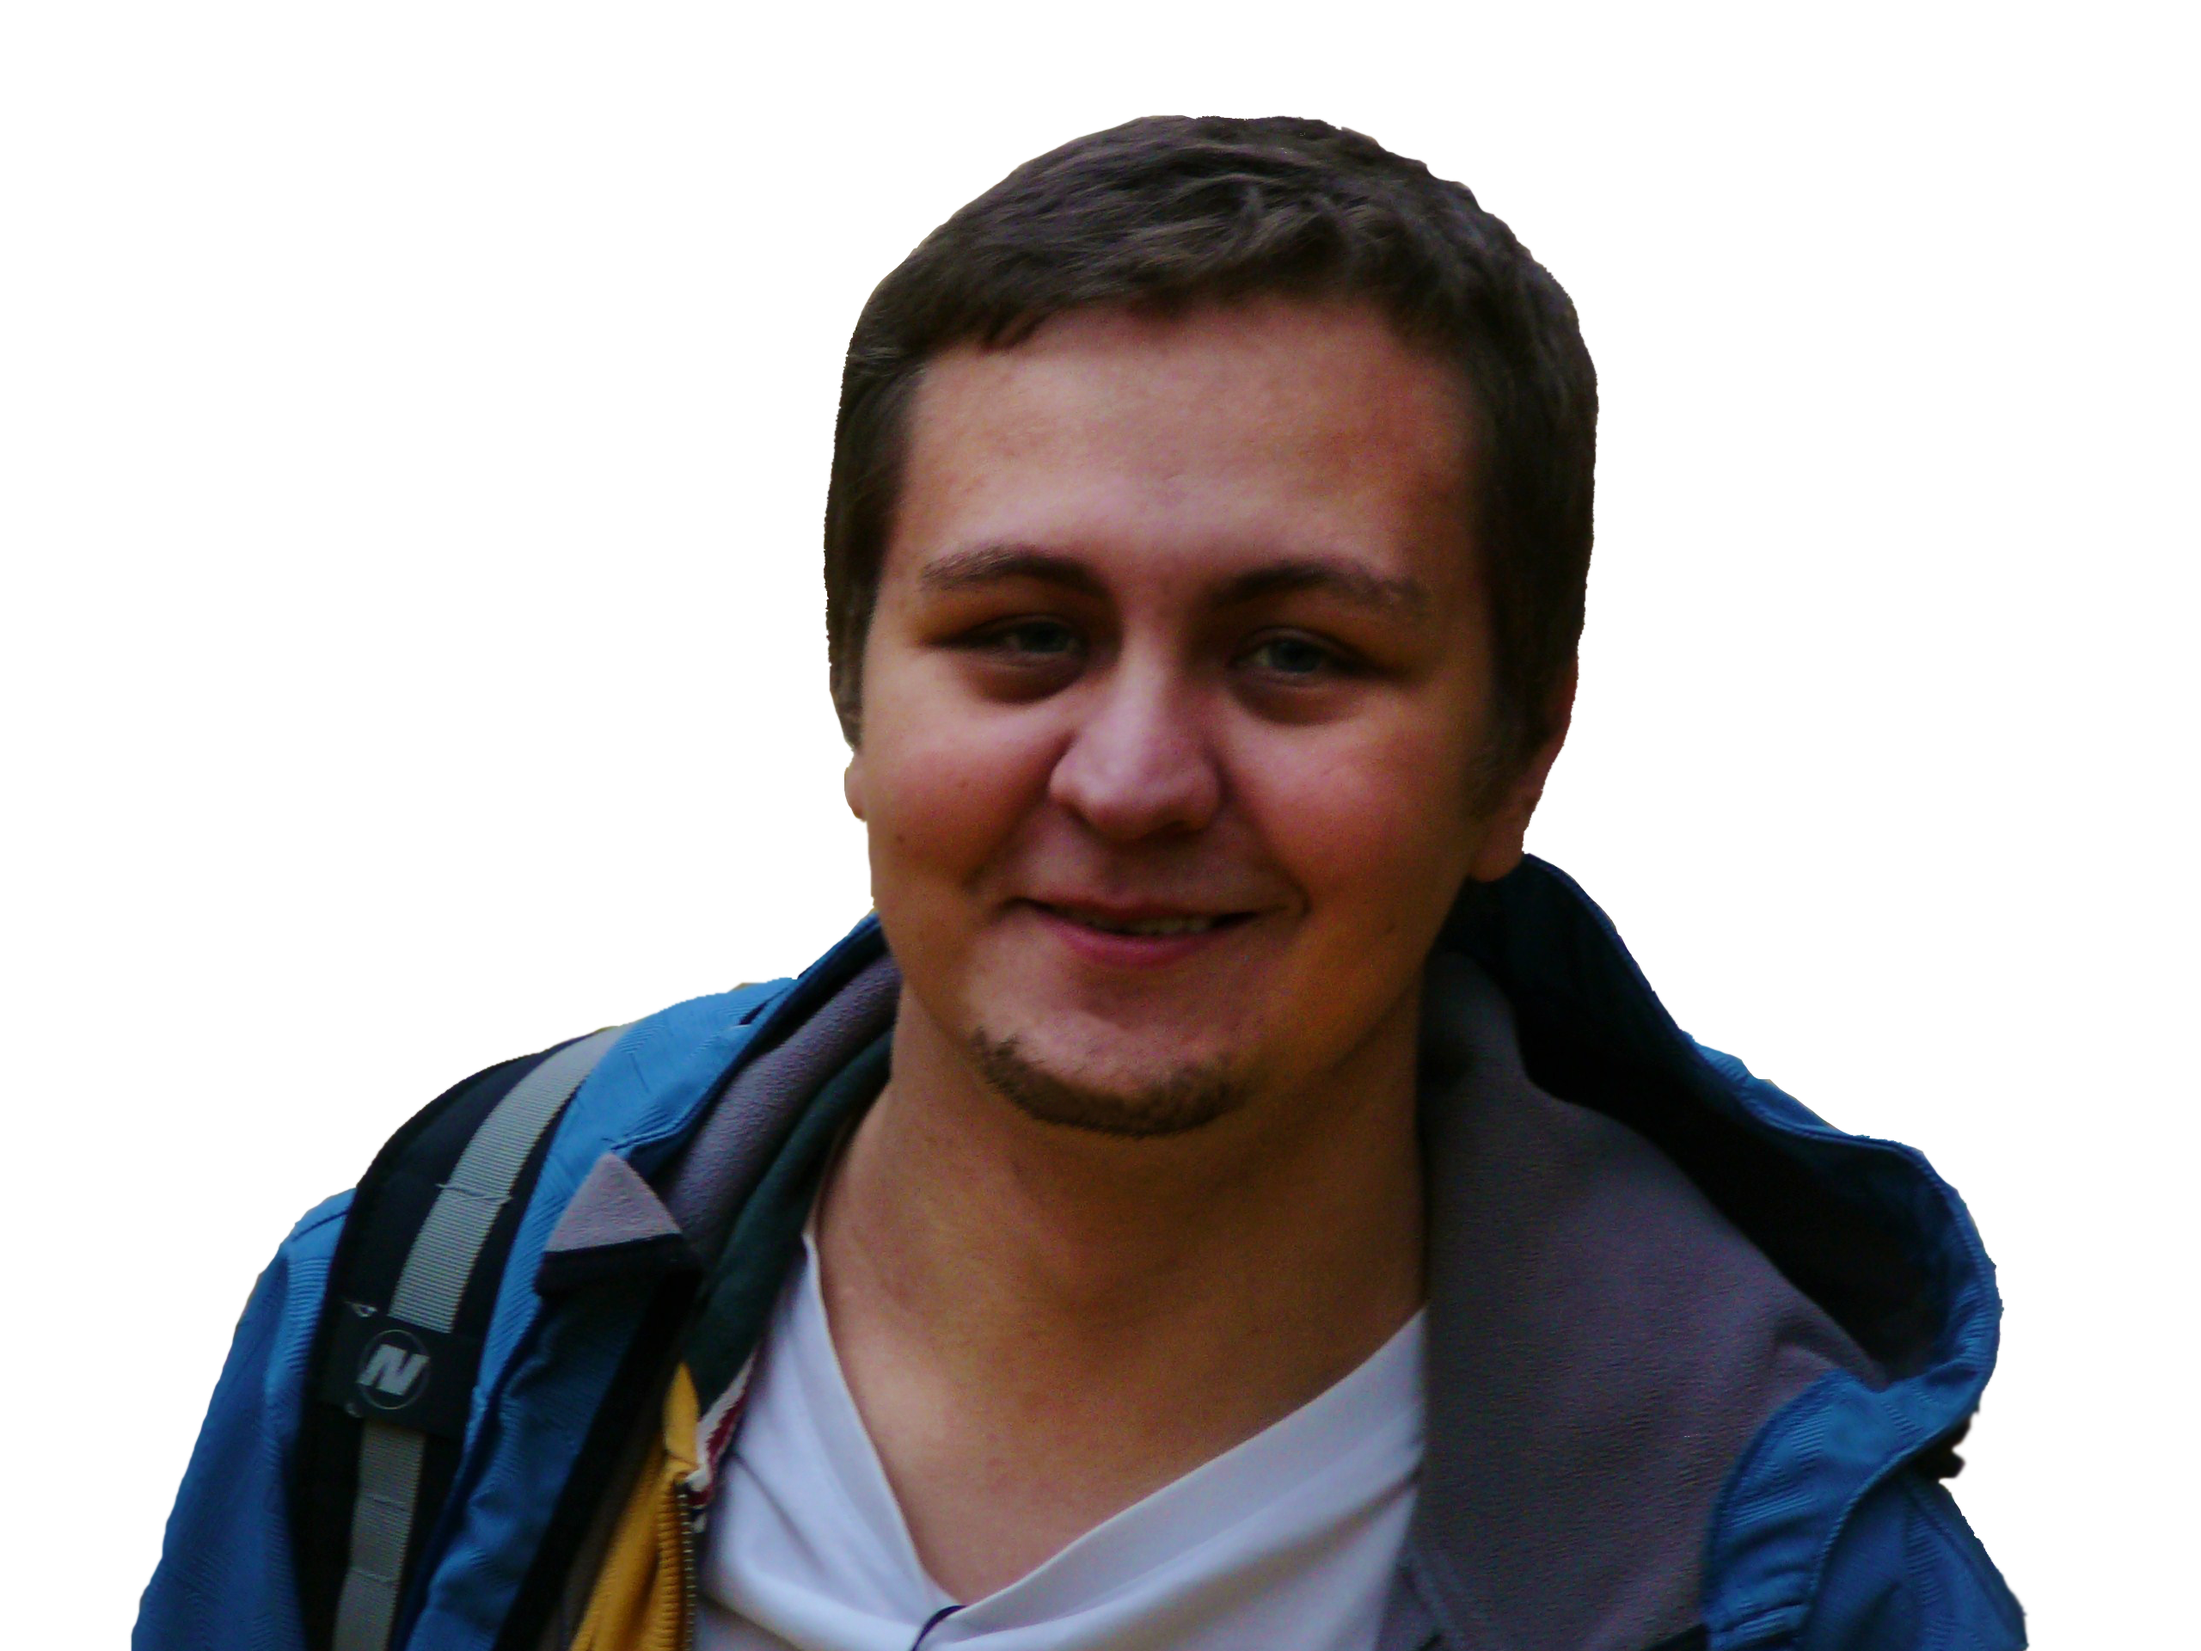
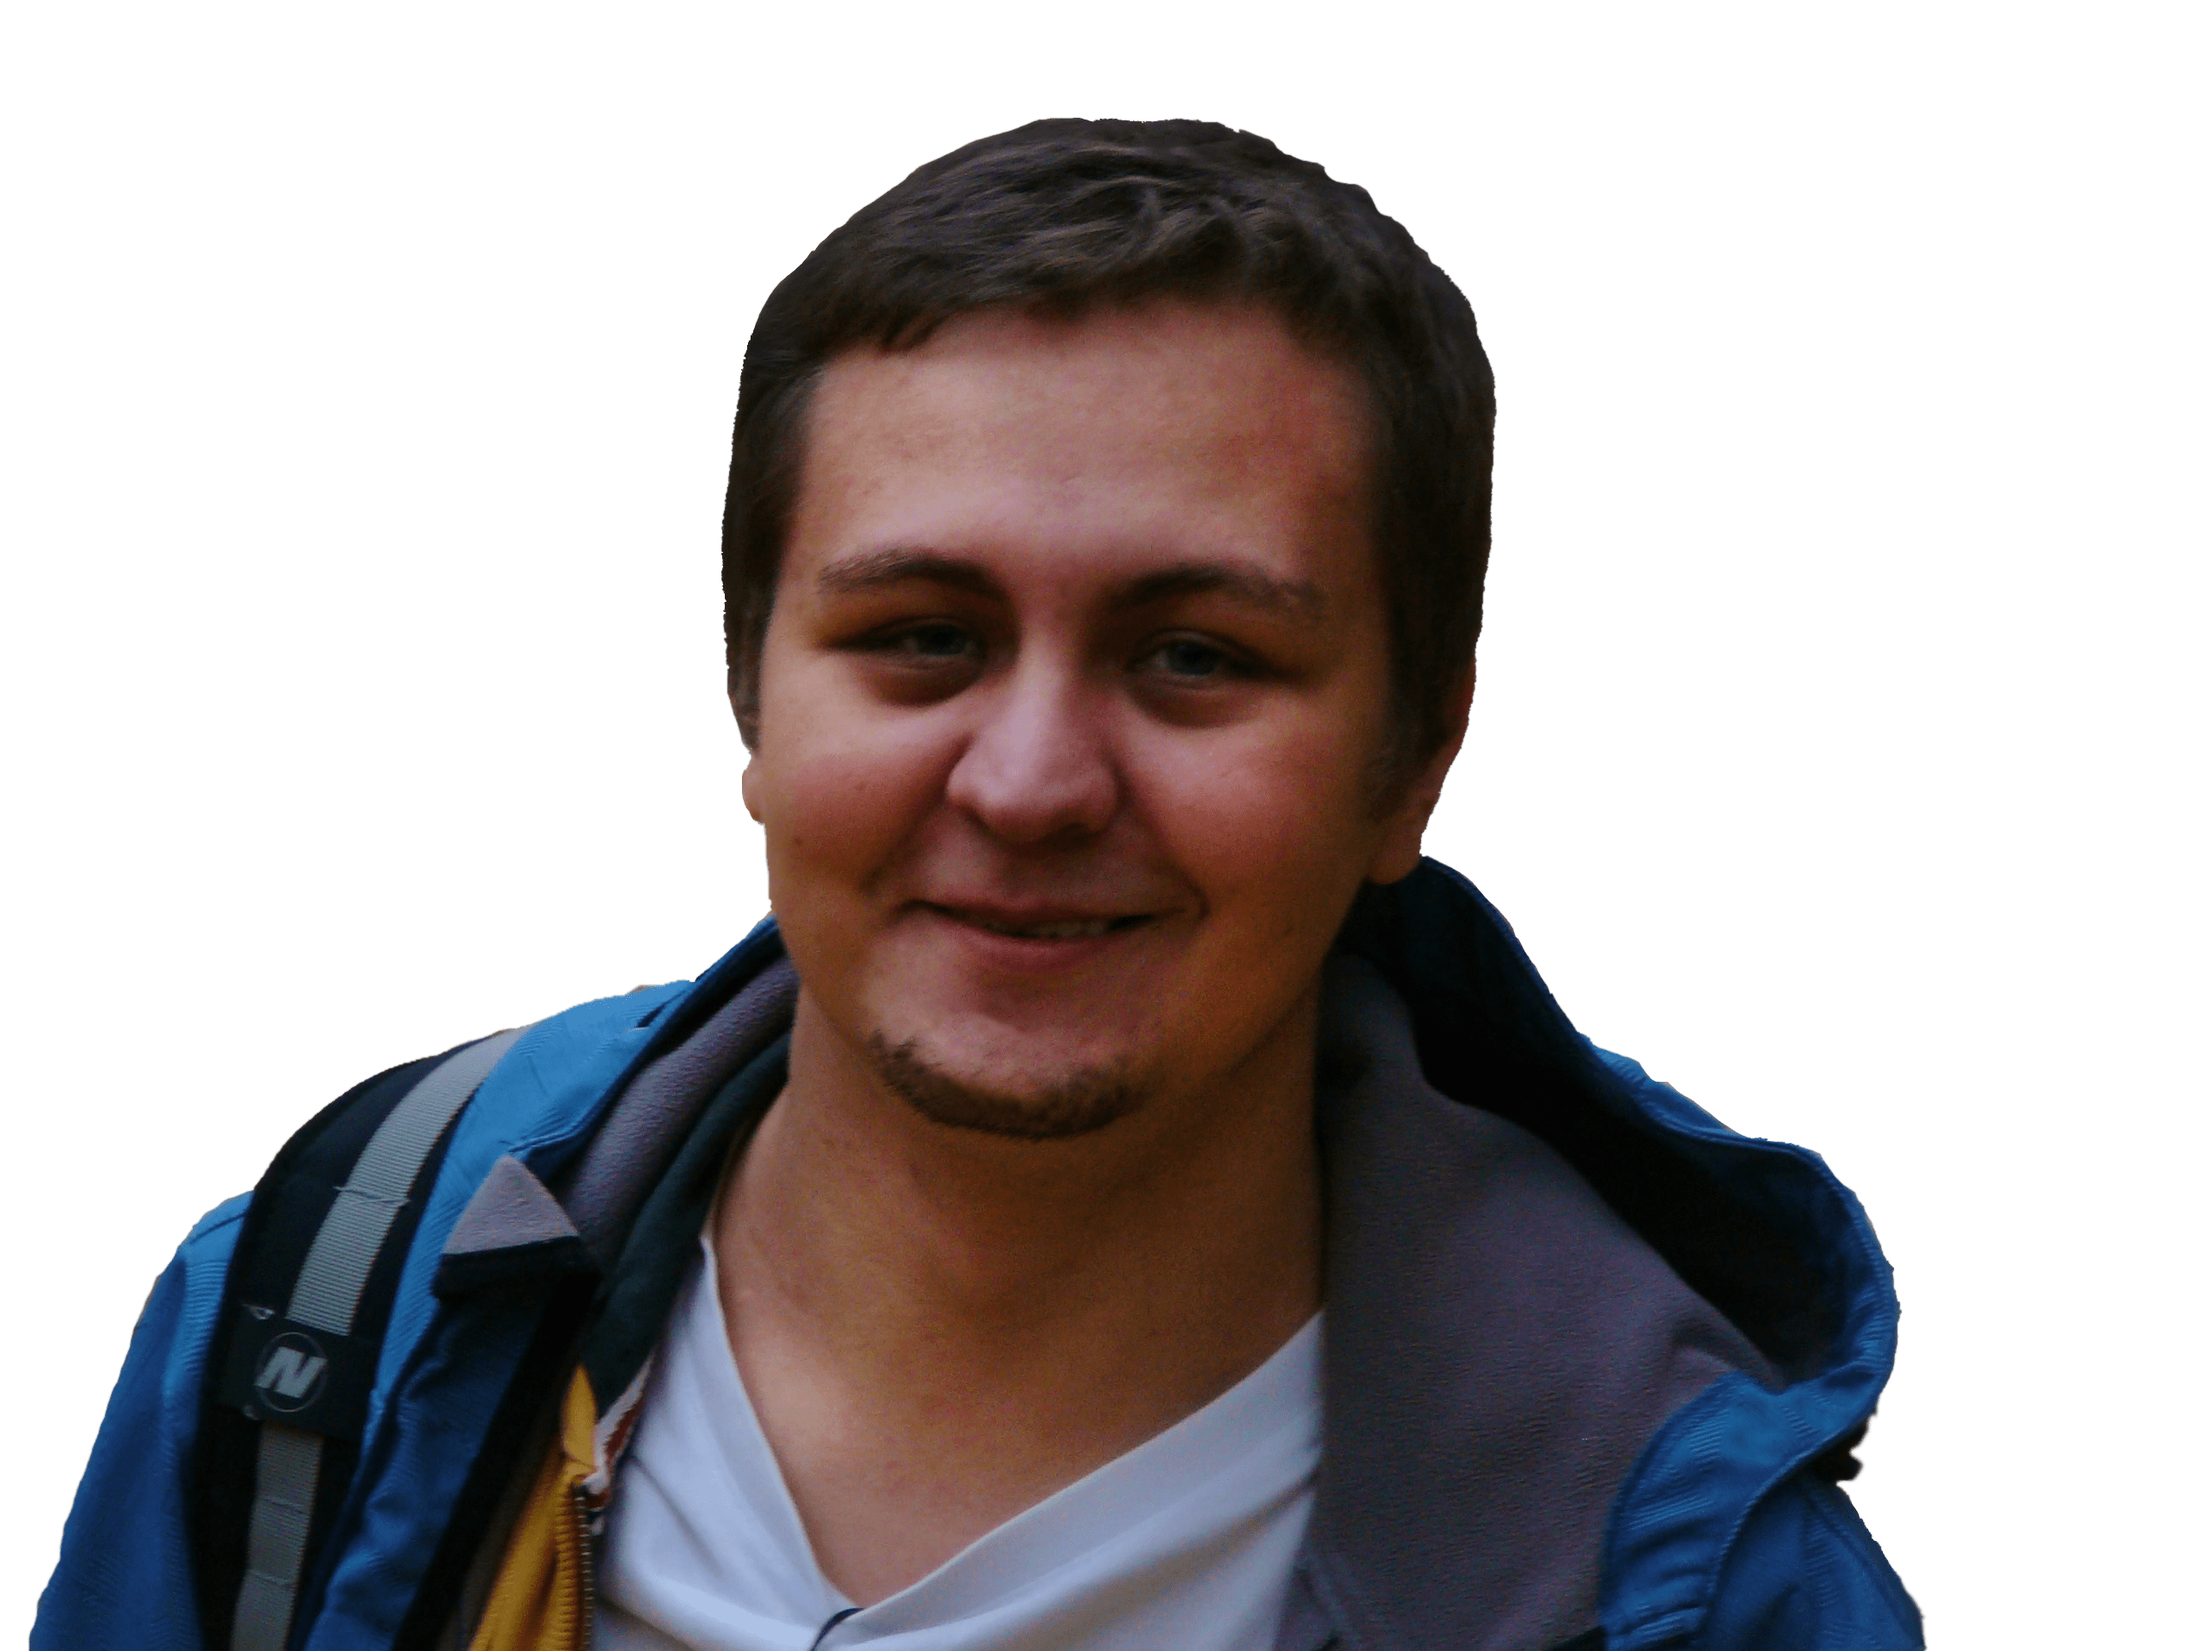
add map, other important changes

diff --git a/index.html b/index.html
@@ -12,15 +12,19 @@
     
 
         
- <div class="header">
+ <div class="header" data-block="header">
    <div class="menu-header">
        <ul class="menu__list">
+        <li class="menu_item">   
+         <a href="#"class="menu_link" data-link="map">Как найти?</a></li>
          <li class="menu_item">     
          <a href="#" class="menu_link" data-link="footer">Связь</a></li>
+         
          <li class="menu_item">   
          <a href="#"class="menu_link" data-link="portfolio">Портфолио</a></li>
          <li class="menu_item">   
-         <a href="#"class="menu_link" data-link="about">Обо мне</a></li></ul></div>
+         <a href="#"class="menu_link" data-link="about">Обо мне</a></li>
+       </ul></div>
 
          <!--button class="button__title">Написать мне</button-->
          <a class="button__title" href="mailto:sergey.poroshin927@gmail.com">Написать мне</a>
@@ -29,7 +33,7 @@
                <h2 class="title_h2">Front-end developer</h2>
                <div class="avatar">
                   
-        <a href="index.html"class="logo"><img width="380" height="320" src="img/avatar-2.png" alt="аватар"> </a> 
+        <a href="index.html"class="logo"><img width="380" height="320" src="img/avatar.png" alt="аватар"> </a> 
              </div>
    </div>
  </div>
@@ -38,15 +42,15 @@
 
  <div class="about" data-block="about">
   <div class="discette"><img src="img/diskette.png" alt="дискета"></div>
-  <div class="top-btn-1"><a href="#">^</a></div>
+  <div class="top-btn-1 topbtn" data-link="header"><a href="#">/\</a></div>
       <div class="about__skill">
-       <p>Привет всем, меня зовут Сергей и я начинающий web-разработчик.</p>
-       <p>Мне очень нравится заниматься тем, чем я занимаюсь.</p>
-       <p>Выполняю работу качественно и вдумчиво, но при этом быстро.</p>
+       <p class="about-p">Приветствую, меня зовут Сергей и я Junior web-разработчик.</p>
+       <p class="about-p">Если нужен сайт - я готов помочь Вам с этим.</p>
+       <p class="about-p">Делаю работу качественно и в срок. Моё портфолио можете увидеть<a href="#" class="about-link" data-link="portfolio"> ниже</a>.</p>
         
       </div>
  </div>
-
+ <p class="skill__list-p">Подробнее о моих навыках:</p>
 <div class="skill">
   <div class="skill__list">
      <ul class="skill_ul">
@@ -55,7 +59,7 @@
      <span class="skill__title">JavaScript</span>
      </li><li class="skill__item">
      <span class="skill__value skill__value-65"></span>
-     <span class="skill__title">CSS</span>
+     <span class="skill__title">CSS\CSS3</span>
      </li>
 
      <li class="skill__item">
@@ -66,7 +70,7 @@
 
      <li class="skill__item">
      <span class="skill__value skill__value-100"></span>
-     <span class="skill__title">HTML</span>
+     <span class="skill__title">HTML\HTML5</span>
      </li>
      </ul>
    </div>
@@ -82,10 +86,17 @@
     <div class="card"><img class="img-card" src="pics/ficus.jpg" alt=""><p>Пример портфолио</p></div>
   
 </div>
-<div class="top-btn-2"><a href="#">^</a></div>
+
+<div class="top-btn-2 topbtn" data-link="header"><a href="#">^</a></div>
  </div>
 
   
+<!--надо поработать над гугл картами, центрируется хрен пойми где--><div data-block="map" class="map-span-wrap"><p class="map-span">Где меня найти:</p></div>
+<div class="map-location-wrap">
+<div class="map-location"><iframe src="https://www.google.com/maps/d/embed?mid=13Y1jG8ycD7BCv-R16sJTTI4tiHQk29Ln" width="860" height="520"></iframe></div>
+</div>
+
+
 <div class="footer" data-block="footer">
   
    <ul class="footer__contacts">
@@ -95,6 +106,7 @@
      <a href="whatsapp://send?phone=+79833946243"class="contacts"><img class="whatsapp-contact" src="img/whatsapp.png" alt="FaceBook"></a></li>
      <li class="footer__contacts__item">   
      <a href="https://t.me/SergeyP9272"class="contacts"><img class="telegram-contact" src="img/telegram.png" alt="Instagram"></a></li></ul>
+  <div class="top-btn-3 topbtn"data-link="header"><a href="#">^</a></div>
     </div>
 
  

diff --git a/css/style.css b/css/style.css
@@ -6,7 +6,6 @@ body{
   }
 
 .body{
-   background:#383838;
    margin:0;
    padding: 0;
    width: 100vw;
@@ -162,31 +161,63 @@ background:rgba(0,231,179,1);
 
 .top-btn-1{
   position: absolute;
-  right:30px;
+  right:50px;
   top:550px;
-  background-color: rgba(0,0,0,0.4);
+  background-color: rgba(0,0,0,0.5);
   height: 25px;
-  width: 25px;
+  width: 30px;
+  border-style: solid;
+  border-radius: 0px 50%;
   color: white;
-  font-size: 30px;
+  font-size: 15px;
   transition: 0.8s;
 }
 
 .about__skill{
-  width: 700px;
+  width: 90vw;
   height: 150px;
   margin:0 auto;
- }
+/*background: linear-gradient(to right, #ECFFF0, #91e0ff);*/
+border-left-style: solid;
+border-left-color: black;
+border-right-style: solid;
+border-right-color: black;
+border-width: 2px; 
+}
+.about-p, .about-link{
+  font-family: 'SFProDisplay';
+  font-size: 20px;
+  color:black;
+}
+
+.about-link{
+color:#8AA9D6;
+text-decoration: dotted;
+transition: 0.5s;
+}
+
+.about-link:hover{
+  color:#3f1bab;
+  transition: 0.5s;
+}
+
 
   .skill{
   margin:0 auto;
   padding: 0 auto;
-  height: 150px;
+  height: 250px;
   background-color:#ECFFF0;
  }
 
 .skill__list{
 margin-top: 100px;
+
+}
+.skill__list-p{
+float: left;
+margin-left: 40px;
+font-size: 25px;
+  font-family: 'SFProDisplay';
 
 }
 
@@ -212,11 +243,11 @@ border-radius: 5px 0 0 5px;
 }
 
 .skill__value-15{
-width: 15%
+width: 25%
 }
 
 .skill__value-65{
-width: 65%
+width: 75%
 }
 
 .skill__value-55{
@@ -224,7 +255,7 @@ width: 65%
 }
 
 .skill__value-100{
-width: 100%
+width: 95%
 }
 
 .skill__title{
@@ -251,19 +282,19 @@ text-align: center;
 
 .portfolio-h{
   margin-left:50px;
-  margin-top: 100px;
+  margin-top: 250px;
   font-size: 40px;
   font-family: 'SFProDisplay';
   
 }
 
-.section-portfolio  {
+.section-portfolio{
   perspective: 1000px;
   width: 100vw;
   height: 300px;
-  margin-left: 25px;
+ 
 
-border-left:solid  w2px, color red;
+border-left:solid  2px, color red;
 }
 
 
@@ -321,17 +352,61 @@ transform: scale(2);
   transition: 0.8s;
 }
 
-.top-btn-1:hover, .top-btn-2:hover{
+.top-btn-1:hover, .top-btn-2:hover, .top-btn-3:hover{
 background-color: rgba(0, 199, 109, 0.7);
 transition: 0.8s;
 }
+
+.map-span-wrap{
+  height: 70px;
+  width: 100vw;
+ 
+  text-align: center;
+  margin-top: 300px;
+}
+
+.map-span{
+  color: black;
+  font-family: 'SFProDisplay';
+  font-size: 30px;
+
+}
+.map-location-wrap{
+width:10vw;
+height: 650px;
+text-align: center;
+margin-left: 30px;
+margin-top: -50px;
+}
+
+.map-location{
+padding-top: 50px;
+width: 95vw;
+height: 500px;
+}
+
 
 .footer{
    background-color:#ECFFF0;
    margin-top: 350px;
    height: 60px;
    width: 100vw;
+   position: relative;
  }  
+
+
+.top-btn-3{
+  position: absolute;
+  right:50px;
+ bottom: 70px;
+  background-color: rgba(0,0,0,0.4);
+  height: 25px;
+  width: 25px;
+  color: white;
+   font-family: 'SFProDisplay';
+  font-size: 30px;
+  transition: 0.8s;
+}
 
 
 .footer__contacts{
@@ -362,4 +437,7 @@ transition: 0.8s;
   height: 45px;
   width: 45px;
   background:url('../img/whatsapp.png')no-repeat center cover;
+}
+a{
+  text-decoration: none;
 }

diff --git a/js/script.js b/js/script.js
@@ -1,9 +1,33 @@
+//анимация c хедера к элементам//
 $(document).ready(function(){
   $('.menu_link').on('click', function(){
 	var id = $(this).data('link');
 	var block = $('body').find('[data-block="'+id+'"]');
 	var top = block.offset().top;
-    $('html, body').animate({scrollTop: top}, 1500);
+    $('html, body').animate({scrollTop: top}, 1200);
+	return false;
+})
+});
+
+
+//анимация ссылки из текста на портфолио//
+$(document).ready(function(){
+  $('.about-link').on('click', function(){
+	var id = $(this).data('link');
+	var block = $('body').find('[data-block="'+id+'"]');
+	var top = block.offset().top;
+    $('html, body').animate({scrollTop: top}, 1200);
+	return false;
+})
+});
+
+//анимация кнопок наверх//
+$(document).ready(function(){
+  $('.topbtn').on('click', function(){
+	var id = $(this).data('link');
+	var block = $('body').find('[data-block="'+id+'"]');
+	var top = block.offset().top;
+    $('html, body').animate({scrollTop: top}, 1200);
 	return false;
 })
 });
@@ -14,4 +38,6 @@ $(document).ready(function(){
 $('.card').on('click', function() {
     $('.container-portfolio').toggleClass('container-origin');
 });
+
+
 
